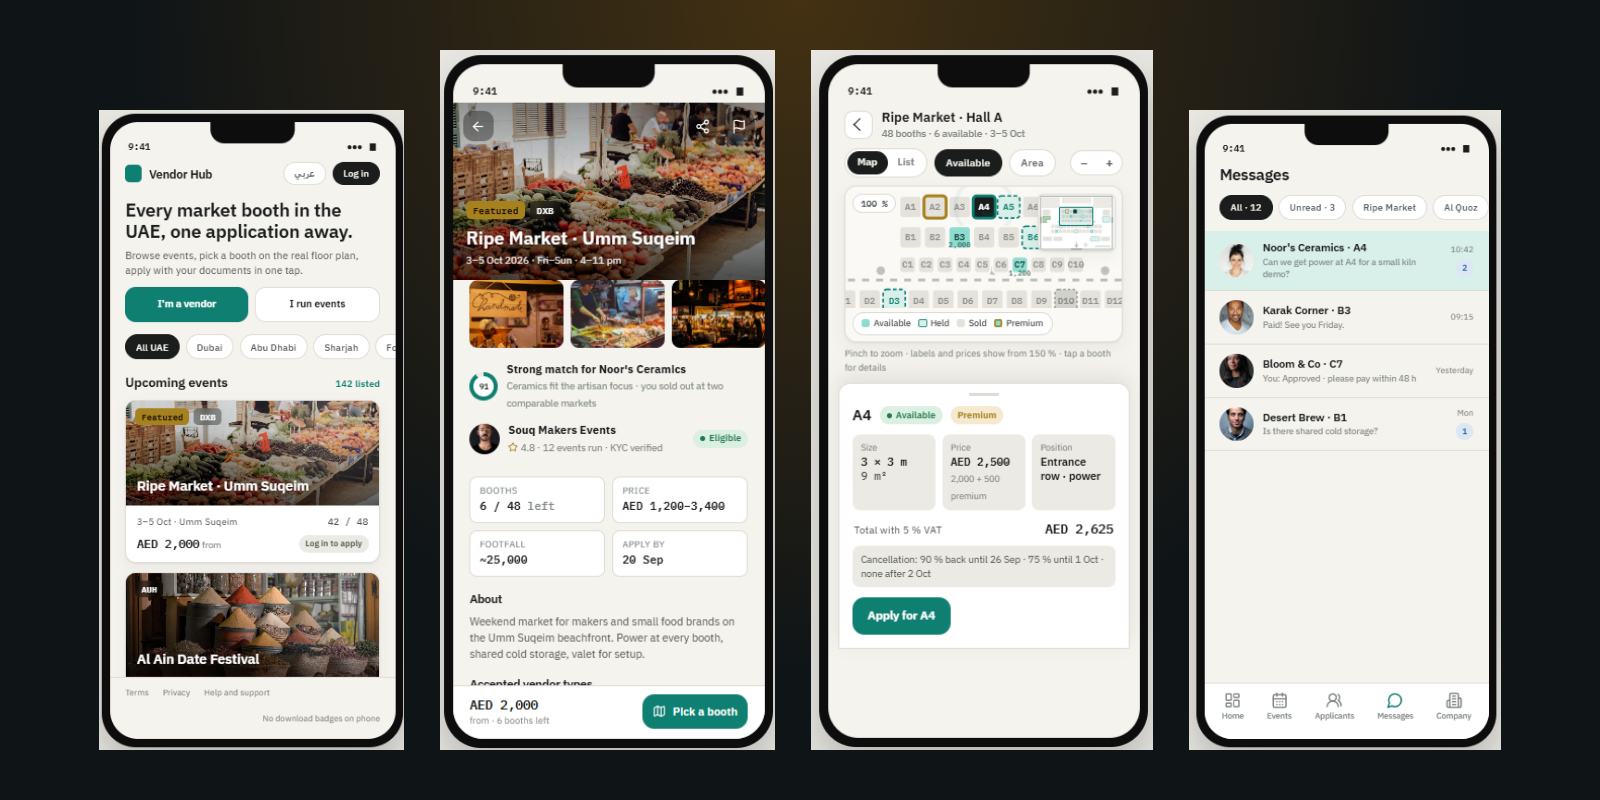
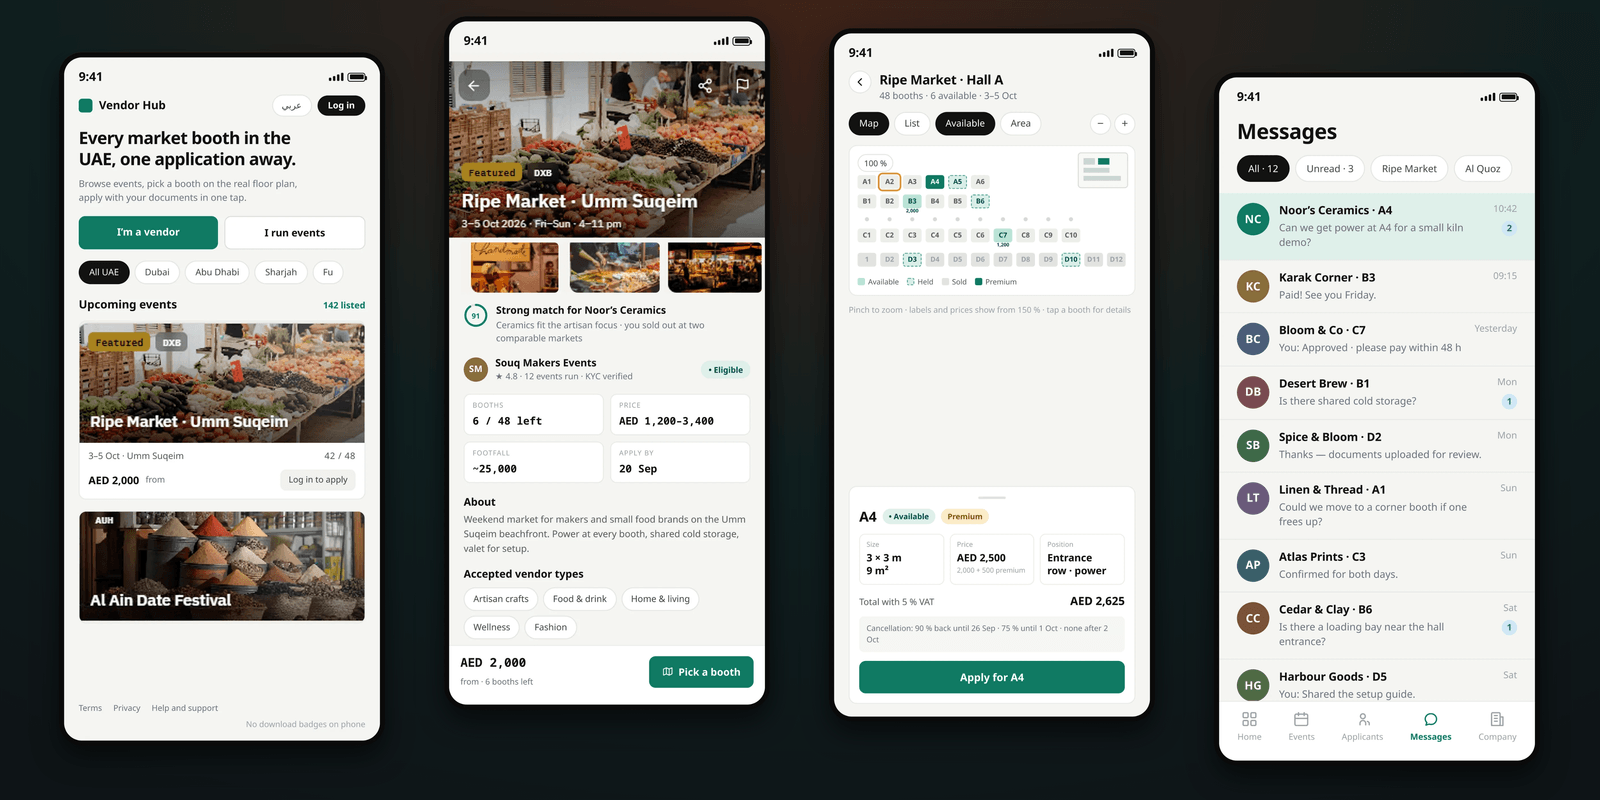
feat: rebuild VendorHub hero composite and convert exports to WebP

diff --git a/tools/mockups/vendorhub-hero.html b/tools/mockups/vendorhub-hero.html
@@ -1,0 +1,53 @@
+<!doctype html>
+<html lang="en">
+<head>
+<meta charset="utf-8">
+<meta name="viewport" content="width=device-width, initial-scale=1">
+<title>Vendor Hub — hero composite</title>
+<link rel="stylesheet" href="phone.css">
+<style>
+  /* 1600x800 hero. Rather than re-authoring the four screens, this crops the
+     phone out of each exported 1280x2560 PNG with overflow + a negative offset,
+     so the only inputs are files already committed to the repo. The phone sits
+     at (68, 63) in those exports and measures 1144x2433 — see phone.css. */
+  .hero {
+    width: 1600px;
+    height: 800px;
+    position: relative;
+    overflow: hidden;
+    background: radial-gradient(
+      120% 150% at 50% 0%,
+      rgba(255, 90, 31, 0.20) 0%,
+      rgba(15, 122, 99, 0.11) 40%,
+      #0f1417 74%
+    );
+  }
+  .ph {
+    position: absolute;
+    width: 1144px;
+    height: 2433px;
+    overflow: hidden;
+    transform-origin: 0 0;
+    transform: scale(0.285);
+    border-radius: 80px;
+    box-shadow: 0 40px 90px rgba(0, 0, 0, 0.55);
+  }
+  .ph img {
+    position: absolute;
+    left: -68px;
+    top: -63px;
+    width: 1280px;
+    height: 2560px;
+    display: block;
+  }
+</style>
+</head>
+<body>
+<div class="hero">
+  <div class="ph" style="left:59px;  top:52px;"><img src="../../public/figma/vendorhub/home.webp" alt=""></div>
+  <div class="ph" style="left:444px; top:16px;"><img src="../../public/figma/vendorhub/event.webp" alt=""></div>
+  <div class="ph" style="left:829px; top:28px;"><img src="../../public/figma/vendorhub/floor-plan.webp" alt=""></div>
+  <div class="ph" style="left:1214px;top:72px;"><img src="../../public/figma/vendorhub/messages.webp" alt=""></div>
+</div>
+</body>
+</html>

diff --git a/components/vendorhub-case-study-page.tsx b/components/vendorhub-case-study-page.tsx
@@ -141,10 +141,10 @@ const capabilities: NumberedCard[] = [
 ];
 
 const screens = [
-  { src: "/figma/vendorhub/home.png", label: "Home and events", alt: "Vendor Hub home screen with upcoming events across the UAE" },
-  { src: "/figma/vendorhub/event.png", label: "Event detail", alt: "Vendor Hub event page with booth availability, price range and vendor match score" },
-  { src: "/figma/vendorhub/floor-plan.png", label: "Floor-plan booking", alt: "Vendor Hub interactive floor plan with booth size, price and Apply button" },
-  { src: "/figma/vendorhub/messages.png", label: "Messages", alt: "Vendor Hub messages between organisers and vendors" },
+  { src: "/figma/vendorhub/home.webp", label: "Home and events", alt: "Vendor Hub home screen with upcoming events across the UAE" },
+  { src: "/figma/vendorhub/event.webp", label: "Event detail", alt: "Vendor Hub event page with booth availability, price range and vendor match score" },
+  { src: "/figma/vendorhub/floor-plan.webp", label: "Floor-plan booking", alt: "Vendor Hub interactive floor plan with booth size, price and Apply button" },
+  { src: "/figma/vendorhub/messages.webp", label: "Messages", alt: "Vendor Hub messages between organisers and vendors" },
 ];
 
 const relatedWork = [

diff --git a/components/dispatch-training-case-study-page.tsx b/components/dispatch-training-case-study-page.tsx
@@ -281,7 +281,7 @@ export function DispatchTrainingCaseStudyPage() {
 
           <div className="relative h-[360px] min-w-0 flex-1 max-[900px]:flex-none overflow-clip rounded-[8px] border border-line bg-[#0f1417] max-[640px]:h-[240px]">
             <ImageLightbox
-              src="/figma/clearline-features.png"
+              src="/figma/clearline-features.webp"
               alt={`${PROJECT_NAME} — what GenAILabs built: trainee platform, training system, agency admin panel, superadmin panel, security and performance, SEO, GEO and maintenance`}
               sizes="(max-width: 640px) 100vw, 32vw"
               fit="contain"

diff --git a/tools/mockups/README.md b/tools/mockups/README.md
@@ -50,8 +50,39 @@ is antialiased from nine subpixels. `--scale` is capped at 3 by gstack policy.
 - Load Space Grotesk and Space Mono from Google Fonts to match `app/layout.tsx`, and always
   declare a system fallback — an offline render silently substitutes the fallback face.
 
+## Encoding
+
+Step 5 writes WebP, not PNG. Measured on this image set, palette PNG beat *lossless* WebP
+on the flat UI screens, but lossy WebP beat both by a wide margin with no visible loss:
+the four VendorHub screens went from 1303 KB as PNG to 559 KB. Use `quality: 92` for flat
+UI and `quality: 85` where a screen carries photography.
+
+```js
+.webp({ quality: 92, effort: 6 })   // flat UI: board, floor-plan, messages
+.webp({ quality: 85, effort: 6 })   // photo-bearing: home, event
+```
+
+`vendorhub-hero.png` is the one exception and stays PNG, because
+`components/work-grid.tsx` also points at it; changing its extension would break the `/work`
+page. It is 247 KB, inside the budget, so there is nothing to gain by converting it.
+
 ## Files
 
 | Source | Export | Used by |
 |---|---|---|
-| `clearline-board.html` | `public/figma/clearline-features.png` (1600×900) | `/case-study/dispatch-training` hero |
+| `clearline-board.html` | `public/figma/clearline-features.webp` (1600×900) | `/case-study/dispatch-training` hero |
+| `vendorhub-home.html` | `public/figma/vendorhub/home.webp` (1280×2560) | `/case-study/vendorhub` gallery |
+| `vendorhub-event.html` | `public/figma/vendorhub/event.webp` (1280×2560) | `/case-study/vendorhub` gallery |
+| `vendorhub-floor-plan.html` | `public/figma/vendorhub/floor-plan.webp` (1280×2560) | `/case-study/vendorhub` gallery |
+| `vendorhub-messages.html` | `public/figma/vendorhub/messages.webp` (1280×2560) | `/case-study/vendorhub` gallery |
+| `vendorhub-hero.html` | `public/figma/vendorhub-hero.png` (1600×800) | `/case-study/vendorhub` hero, `/work` card |
+
+`vendorhub-hero.html` has no screen markup of its own: it CSS-crops the phone out of the
+four exported screens (the phone sits at 68,63 and measures 1144×2433 in a 1280×2560
+export), so re-exporting a screen and then the hero keeps them in sync.
+
+`public/figma/vendorhub/photos/` holds the photography, cropped out of the original app
+screenshots and upscaled 4× with Lanczos. Each photo keeps the app's own baked-in overlay
+text — badges, card titles, the event hero's title and date — so the HTML must not redraw
+those labels, and must render the photos at natural aspect (`height:auto`); cover-cropping
+clips them.
